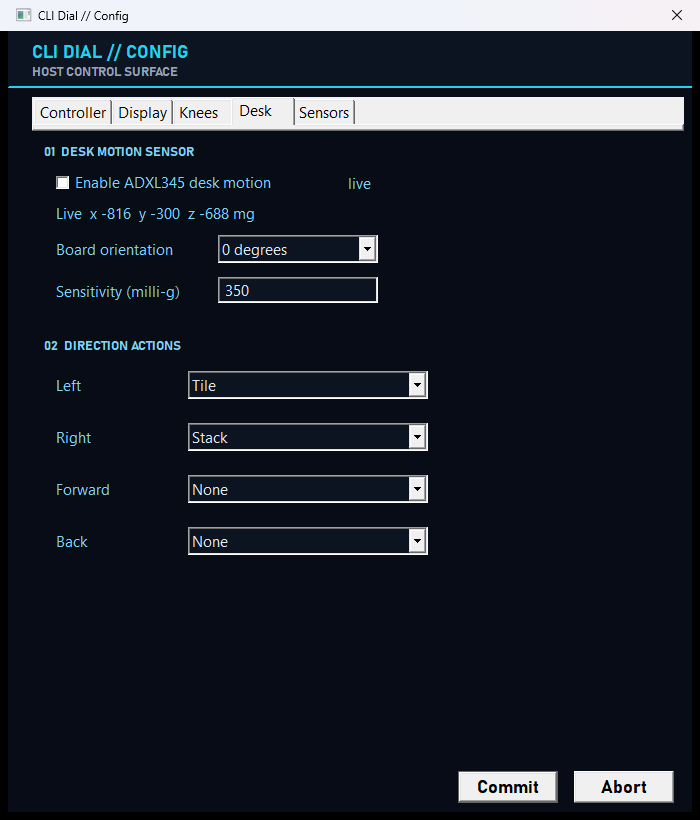
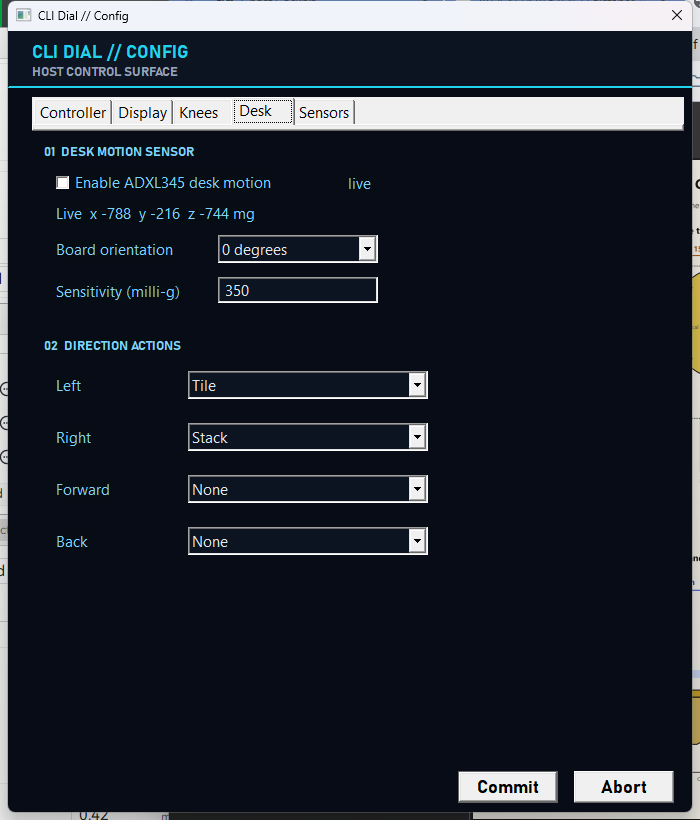
fix: publish VL53L4CD millimetres only when range_status is 0

diff --git a/firmware/src/main.cpp b/firmware/src/main.cpp
@@ -5,7 +5,7 @@
 #include <cstring>
 #include <math.h>
 
-static const char *kFw = "0.6.5";
+static const char *kFw = "0.6.6";
 static const uint32_t kHostTimeoutMs = 3000;
 static const uint32_t kOverlayHoldMs = 2500;
 static const int kDetentPulses = 4;
@@ -54,6 +54,7 @@ static uint32_t lastAccelPollMs = 0;
 static uint32_t lastSensorScanMs = 0;
 static uint8_t nextInit = 0;
 static uint8_t nextTofPoll = 0;
+static uint8_t rangingIdx = 0xFF;
 static bool scanRequested = true;
 
 static bool exReady = false;
@@ -156,6 +157,9 @@ static void setSlotOk(int idx, bool ok) {
   s.ok = ok;
   if (!ok) {
     s.failures = 0;
+    if (rangingIdx == (uint8_t)idx) {
+      rangingIdx = 0xFF;
+    }
   }
   reportSlot((uint8_t)idx);
 }
@@ -208,12 +212,12 @@ static bool initTofSlot(int idx) {
   if (tofDev.InitSensor() != 0) {
     return false;
   }
-  if (tofDev.VL53L4CD_SetRangeTiming(200, 0) != 0) {
+  if (tofDev.VL53L4CD_SetRangeTiming(50, 0) != 0) {
     return false;
   }
   tofDev.VL53L4CD_SetSignalThreshold(50);
   tofDev.VL53L4CD_SetSigmaThreshold(120);
-  return tofDev.VL53L4CD_StartRanging() == 0;
+  return true;
 }
 
 static int countHits() {
@@ -303,6 +307,7 @@ static void probeBus(uint8_t mux, uint8_t ch) {
 }
 
 static void discoverSensors() {
+  rangingIdx = 0xFF;
   for (uint8_t i = 0; i < slotCount; ++i) {
     slots[i].seen = false;
   }
@@ -365,6 +370,23 @@ static void sensorFailed(int idx) {
   setSlotOk(idx, false);
 }
 
+static bool tofStop(uint8_t i) {
+  if (i >= slotCount) {
+    return true;
+  }
+  if (!muxSelect(slots[i].mux, slots[i].ch)) {
+    return false;
+  }
+  return tofDev.VL53L4CD_StopRanging() == 0;
+}
+
+static bool tofStart(uint8_t i) {
+  if (!muxSelect(slots[i].mux, slots[i].ch)) {
+    return false;
+  }
+  return tofDev.VL53L4CD_StartRanging() == 0;
+}
+
 static void pollTof(uint32_t now) {
   if (now - lastTofPollMs < 50 || slotCount == 0) {
     return;
@@ -376,28 +398,43 @@ static void pollTof(uint32_t now) {
     if (slots[i].kind != kKindTof || !slots[i].ok) {
       continue;
     }
-    if (!muxSelect(slots[i].mux, slots[i].ch)) {
+    if (rangingIdx != i) {
+      if (rangingIdx != 0xFF) {
+        tofStop(rangingIdx);
+        rangingIdx = 0xFF;
+      }
+      if (!tofStart(i)) {
+        sensorFailed(i);
+        return;
+      }
+      rangingIdx = i;
+    } else if (!muxSelect(slots[i].mux, slots[i].ch)) {
       setSlotOk(i, false);
       return;
     }
     uint8_t ready = 0;
     uint32_t t0 = millis();
-    while (millis() - t0 < 220) {
+    while (millis() - t0 < 80) {
       if (tofDev.VL53L4CD_CheckForDataReady(&ready) == 0 && ready) {
         break;
       }
       delay(5);
     }
+    if (!ready) {
+      return;
+    }
+    tofDev.VL53L4CD_ClearInterrupt();
     VL53L4CD_Result_t result;
     if (tofDev.VL53L4CD_GetResult(&result) != 0) {
       sensorFailed(i);
       return;
     }
-    tofDev.VL53L4CD_ClearInterrupt();
     slots[i].failures = 0;
-    Serial.printf("{\"v\":1,\"t\":\"tof\",\"id\":\"%s\",\"mux\":%u,\"ch\":%u,\"mm\":%u,\"st\":%u,\"sig\":%u}\n",
-                  slots[i].id, slots[i].mux, slots[i].ch, result.distance_mm, result.range_status,
-                  result.signal_rate_kcps);
+    uint16_t mm = result.range_status == 0 ? result.distance_mm : 0;
+    Serial.printf(
+        "{\"v\":1,\"t\":\"tof\",\"id\":\"%s\",\"mux\":%u,\"ch\":%u,\"mm\":%u,\"st\":%u,\"sig\":%u,\"amb\":%u,\"spad\":%u}\n",
+        slots[i].id, slots[i].mux, slots[i].ch, mm, result.range_status,
+        result.signal_per_spad_kcps, result.ambient_per_spad_kcps, result.number_of_spad);
     return;
   }
 }

diff --git a/internal/protocol/protocol_test.go b/internal/protocol/protocol_test.go
@@ -57,8 +57,8 @@ func TestParseSensorMessages(t *testing.T) {
 	if err != nil || root.SensorID() != "root:accel" {
 		t.Fatalf("root %+v %v", root, err)
 	}
-	tof, err := ParseDeviceLine(`{"v":1,"t":"tof","id":"mux:70:3:tof","mux":112,"ch":3,"mm":421}`)
-	if err != nil || tof.Ch != 3 || tof.MM != 421 || tof.SensorID() != "mux:70:3:tof" {
+	tof, err := ParseDeviceLine(`{"v":1,"t":"tof","id":"mux:70:3:tof","mux":112,"ch":3,"mm":421,"st":0,"sig":180,"amb":4}`)
+	if err != nil || tof.Ch != 3 || tof.MM != 421 || tof.St != 0 || tof.Sig != 180 || tof.Amb != 4 || tof.SensorID() != "mux:70:3:tof" {
 		t.Fatalf("tof %+v %v", tof, err)
 	}
 	accel, err := ParseDeviceLine(`{"v":1,"t":"accel","ch":4,"x":12,"y":-410,"z":1002}`)
@@ -96,9 +96,13 @@ func TestSensorLiveText(t *testing.T) {
 	if tof.LiveText() != "142 mm" {
 		t.Fatalf("tof %s", tof.LiveText())
 	}
-	empty := SensorStatus{Kind: "tof", OK: true, Live: true, MM: 0}
-	if empty.LiveText() != "no target" {
+	empty := SensorStatus{Kind: "tof", OK: true, Live: true, MM: 0, St: 2, Sig: 0, Amb: 12}
+	if empty.LiveText() != "no target  st 2  sig 0  amb 12" {
 		t.Fatalf("empty %s", empty.LiveText())
+	}
+	zeroValid := SensorStatus{Kind: "tof", OK: true, Live: true, MM: 0, St: 0}
+	if zeroValid.LiveText() != "0 mm" {
+		t.Fatalf("zero %s", zeroValid.LiveText())
 	}
 	accel := SensorStatus{Kind: "accel", OK: true, Live: true, X: 12, Y: -410, Z: 1002}
 	if accel.LiveText() != "x +12  y -410  z +1002 mg" {

diff --git a/internal/app/app_windows.go b/internal/app/app_windows.go
@@ -295,7 +295,9 @@ func (a *App) handleMsg(m protocol.DeviceMsg) {
 		a.settings.SetSensorStatus(a.sensorOK)
 	case "tof":
 		a.applySample(m)
-		a.applyMotion(a.motion.Distance(m.SensorID(), m.MM, time.Now()))
+		if m.St == 0 {
+			a.applyMotion(a.motion.Distance(m.SensorID(), m.MM, time.Now()))
+		}
 		a.settings.SetLive(a.inventory)
 	case "accel":
 		a.applySample(m)
@@ -328,6 +330,9 @@ func (a *App) upsertInventory(m protocol.DeviceMsg) {
 			prev := a.inventory[i]
 			st.Live = prev.Live
 			st.MM = prev.MM
+			st.St = prev.St
+			st.Sig = prev.Sig
+			st.Amb = prev.Amb
 			st.X = prev.X
 			st.Y = prev.Y
 			st.Z = prev.Z
@@ -350,7 +355,7 @@ func (a *App) applySample(m protocol.DeviceMsg) {
 			kind = "tof"
 		}
 	}
-	st := protocol.SensorStatus{ID: id, Kind: kind, Mux: m.Mux, Ch: m.Ch, OK: true, Live: true, MM: m.MM, X: m.X, Y: m.Y, Z: m.Z}
+	st := protocol.SensorStatus{ID: id, Kind: kind, Mux: m.Mux, Ch: m.Ch, OK: true, Live: true, MM: m.MM, St: m.St, Sig: m.Sig, Amb: m.Amb, X: m.X, Y: m.Y, Z: m.Z}
 	for i := range a.inventory {
 		if a.inventory[i].ID == id {
 			cur := a.inventory[i]
@@ -361,6 +366,9 @@ func (a *App) applySample(m protocol.DeviceMsg) {
 				cur.X, cur.Y, cur.Z = m.X, m.Y, m.Z
 			} else {
 				cur.MM = m.MM
+				cur.St = m.St
+				cur.Sig = m.Sig
+				cur.Amb = m.Amb
 			}
 			a.inventory[i] = cur
 			a.syncLegacyStatus()

diff --git a/internal/protocol/protocol.go b/internal/protocol/protocol.go
@@ -21,6 +21,9 @@ type DeviceMsg struct {
 	Kind  string `json:"kind,omitempty"`
 	OK    bool   `json:"ok,omitempty"`
 	MM    int    `json:"mm,omitempty"`
+	St    int    `json:"st,omitempty"`
+	Sig   int    `json:"sig,omitempty"`
+	Amb   int    `json:"amb,omitempty"`
 	X     int    `json:"x,omitempty"`
 	Y     int    `json:"y,omitempty"`
 	Z     int    `json:"z,omitempty"`
@@ -40,6 +43,9 @@ type SensorStatus struct {
 	OK   bool
 	Live bool
 	MM   int
+	St   int
+	Sig  int
+	Amb  int
 	X    int
 	Y    int
 	Z    int
@@ -55,8 +61,8 @@ func (s SensorStatus) LiveText() string {
 	if s.Kind == "accel" {
 		return fmt.Sprintf("x %+d  y %+d  z %+d mg", s.X, s.Y, s.Z)
 	}
-	if s.MM == 0 {
-		return "no target"
+	if s.St != 0 {
+		return fmt.Sprintf("no target  st %d  sig %d  amb %d", s.St, s.Sig, s.Amb)
 	}
 	return fmt.Sprintf("%d mm", s.MM)
 }
